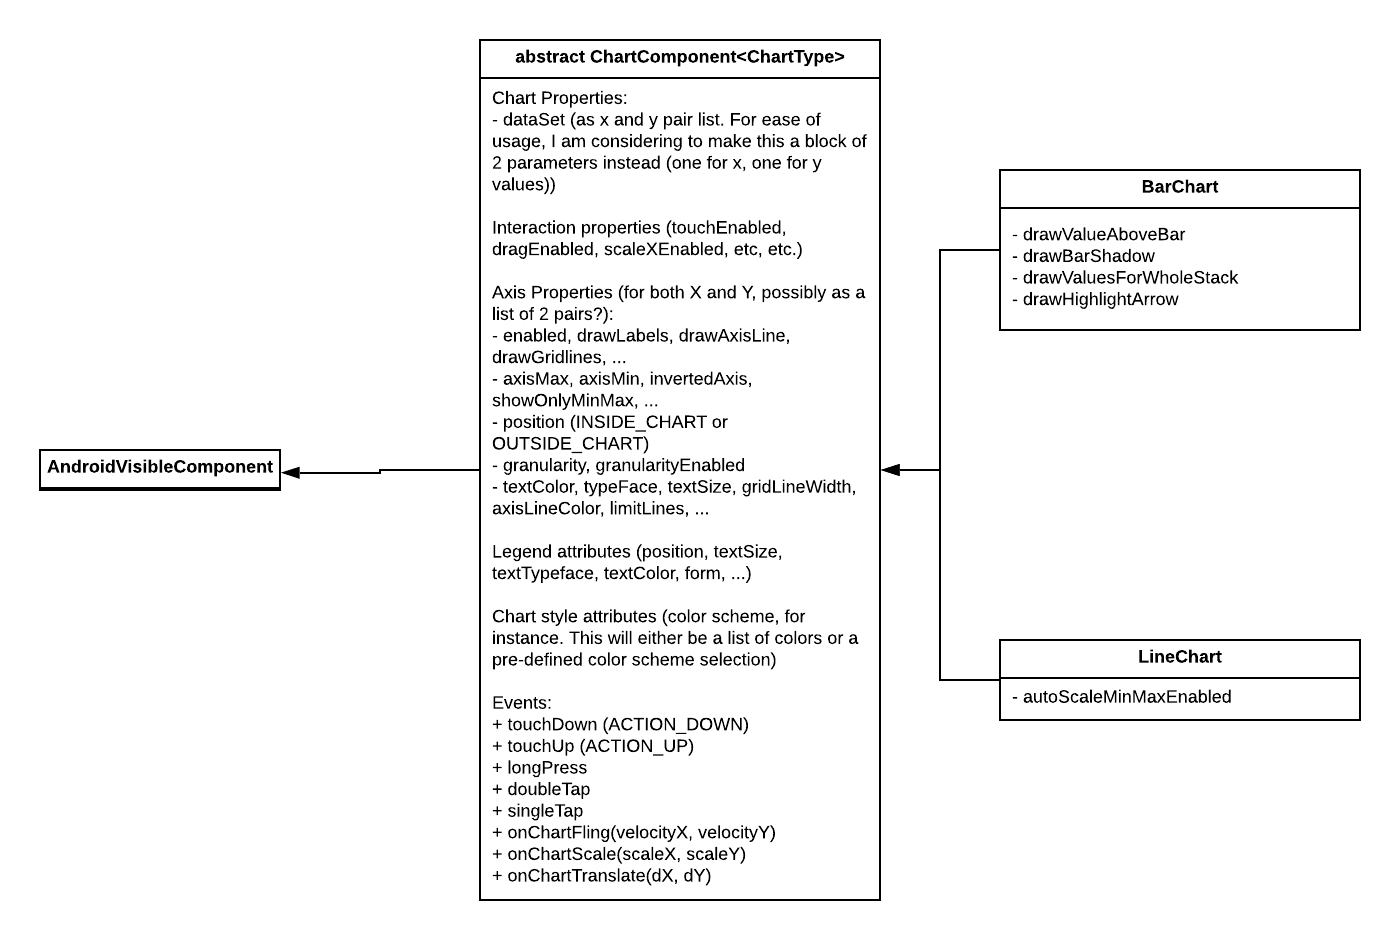
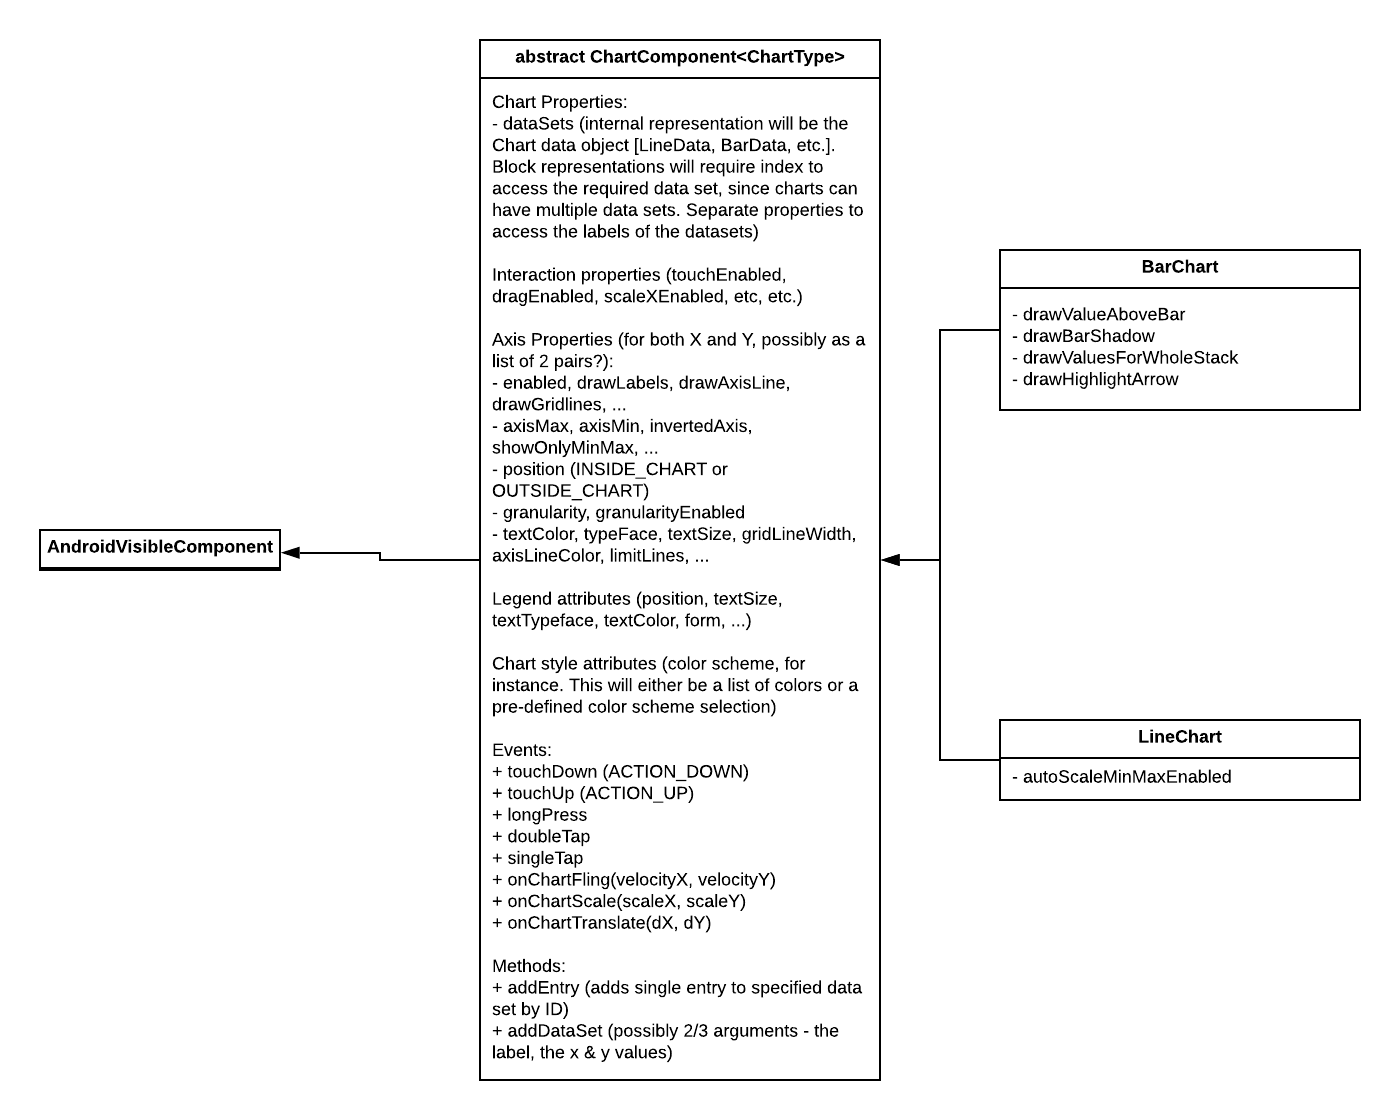
Update inheritance mockup & add chart demonstration link

diff --git a/index.html b/index.html
@@ -119,9 +119,17 @@
                     <li>Chart Component classes: <i>components\src\com\google\appinventor\components\runtime</i></li>
                     <li>Chart Component documentation: <i>docs\reference\components</i></li>
                     <li>Mock Chart Component classes: <i>src\com\google\appinventor\client\editor\simple\components</i></li>
+                    <li>Versioning entries: <i>blocklyeditor\src\versioning.js</i></li>
+                    <li>Current version tracking: <i>components\src\com\google\appinventor\components\common\YaVersion.java</i></li>
+                    <li>Component categories: <i>components\src\com\google\appinventor\components\common\ComponentCategory.java</i></li>
+                    <li>Mock Chart Component Loading in editor:
+                        <i>src\com\google\appinventor\client\editor\simple\palette\SimpleComponentDescriptor.java</i></li>
                 </ul>
 
                 <h4>Mockups & Snippets</h4>
+                <p><a href="https://github.com/lightingft/AndroidChartTests">MPAndroidChart demonstration</a></p>
+                <br>
+
                 <img id="uml-mockup" src="project-ref/inheritance-mockup.png">
                 <p><i>UML mockup of how the inheritance chain would look like. A lot of details ommitted for brevity.</i></p>
 
@@ -155,7 +163,7 @@
                 <br><br>
                 
                 <p><img id="comp5" src="project-ref/comp5.png"></p>
-                <p><i>Add mock component instantiation in MockLineChart.java so that we can get a visible mock component
+                <p><i>Add mock component instantiation in SimpleComponentDescriptor.java so that we can get a visible mock component
                     in the editor. With this, we assume that a MockLineChart class exists with the required type. For now,
                     in my example code, I have made the MockLineChart component simply a copy of the MockLabel class.
                 </i></p>
@@ -276,7 +284,7 @@
                     <li><b>Workload for mid Week 7 up to Week 12 to be discussed with mentor at beginning of project (so this project can be further well scoped)</b></li>
                 </ul>
 
-                <h3>My Own Commitments</h3>
+                <h3>Personal Commitments</h3>
                 <p>Unfortunately, there will be two periods of time when I will be absent:
                 </p>
                 <ul>

diff --git a/style.css b/style.css
@@ -64,5 +64,5 @@ html {
 }
 
 #uml-mockup {
-    height: 70vh;
+    height: 80vh;
 }
